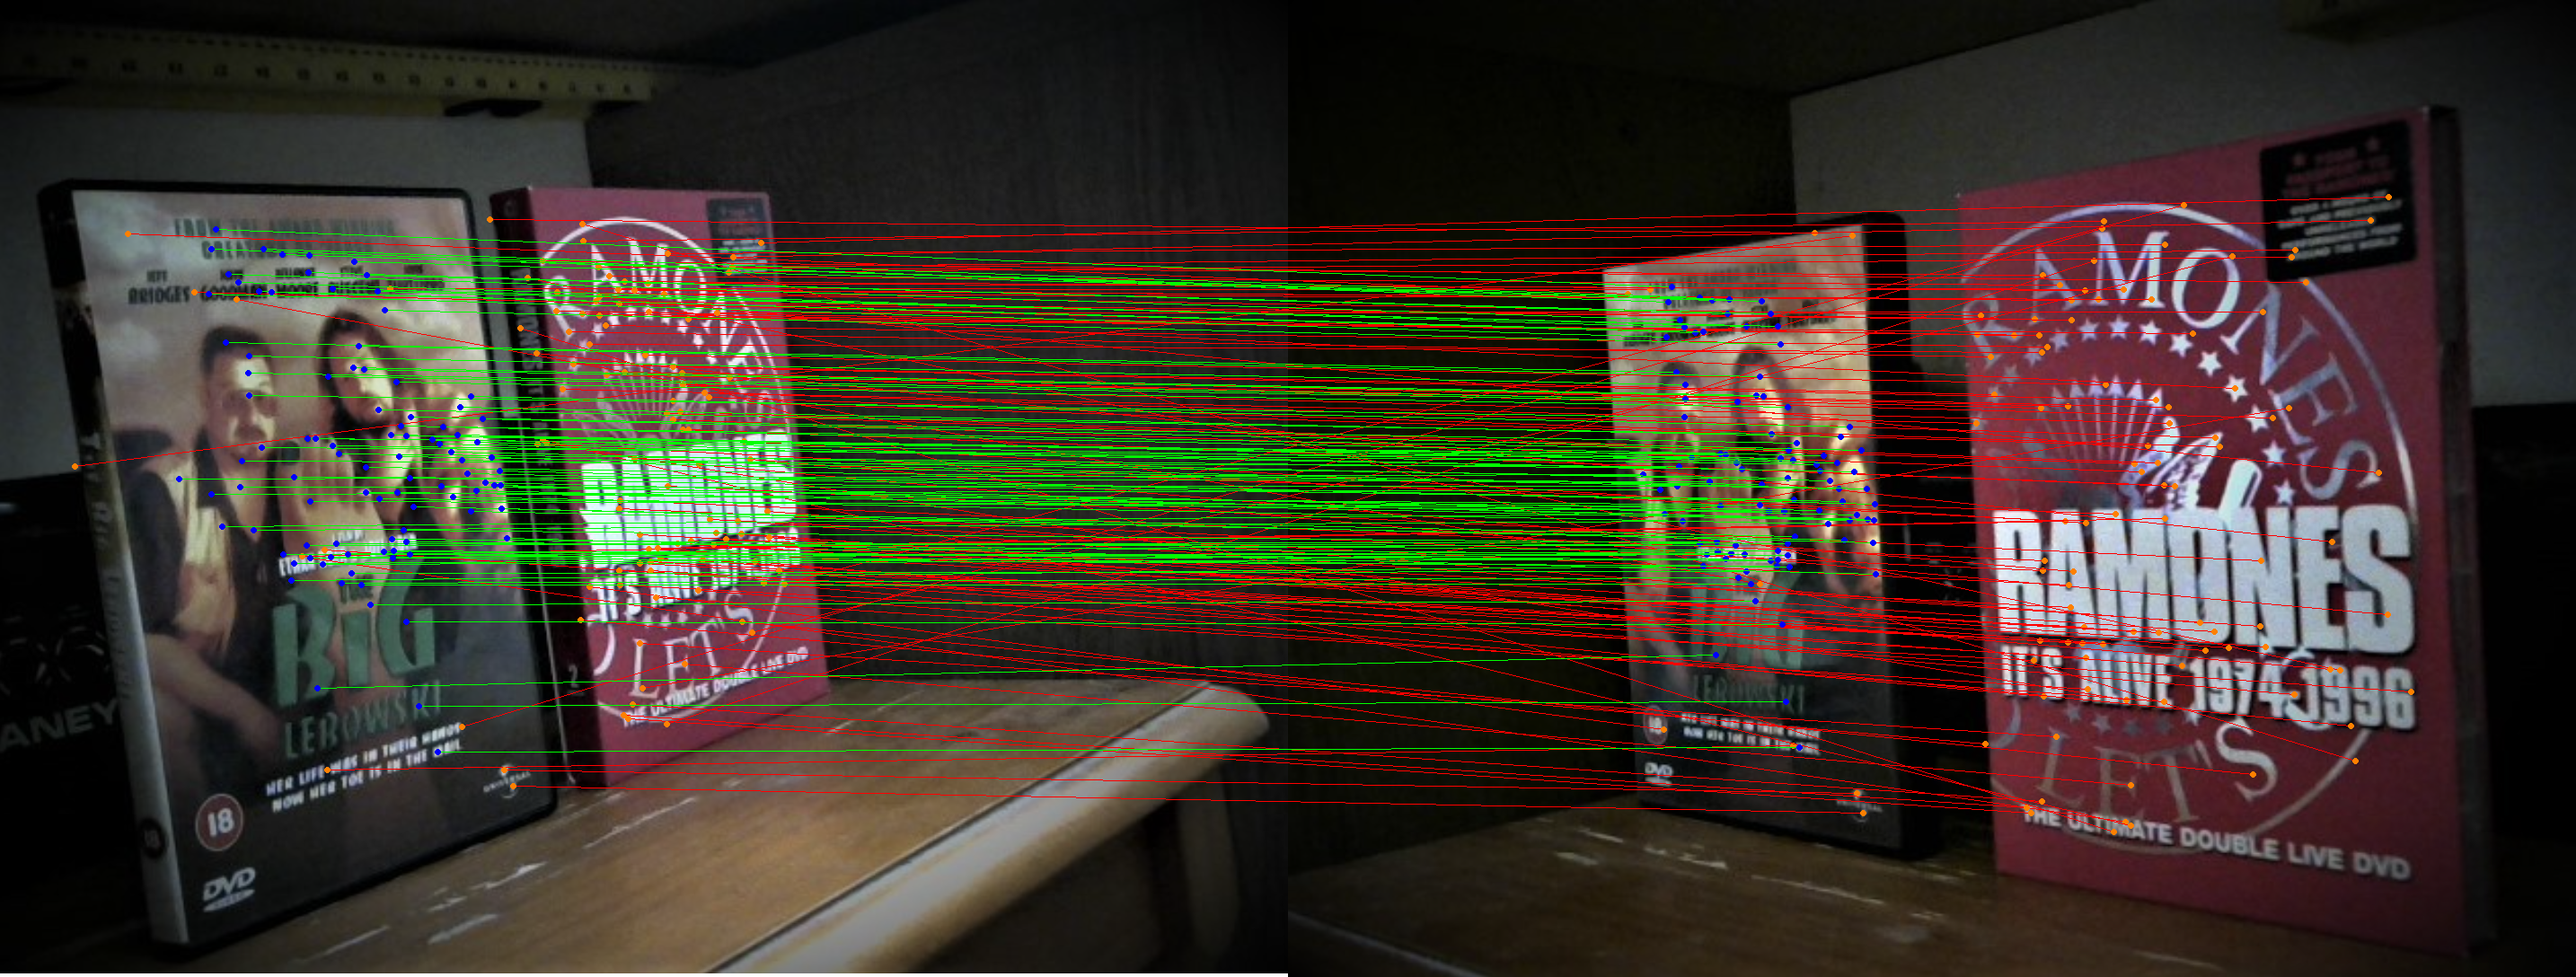
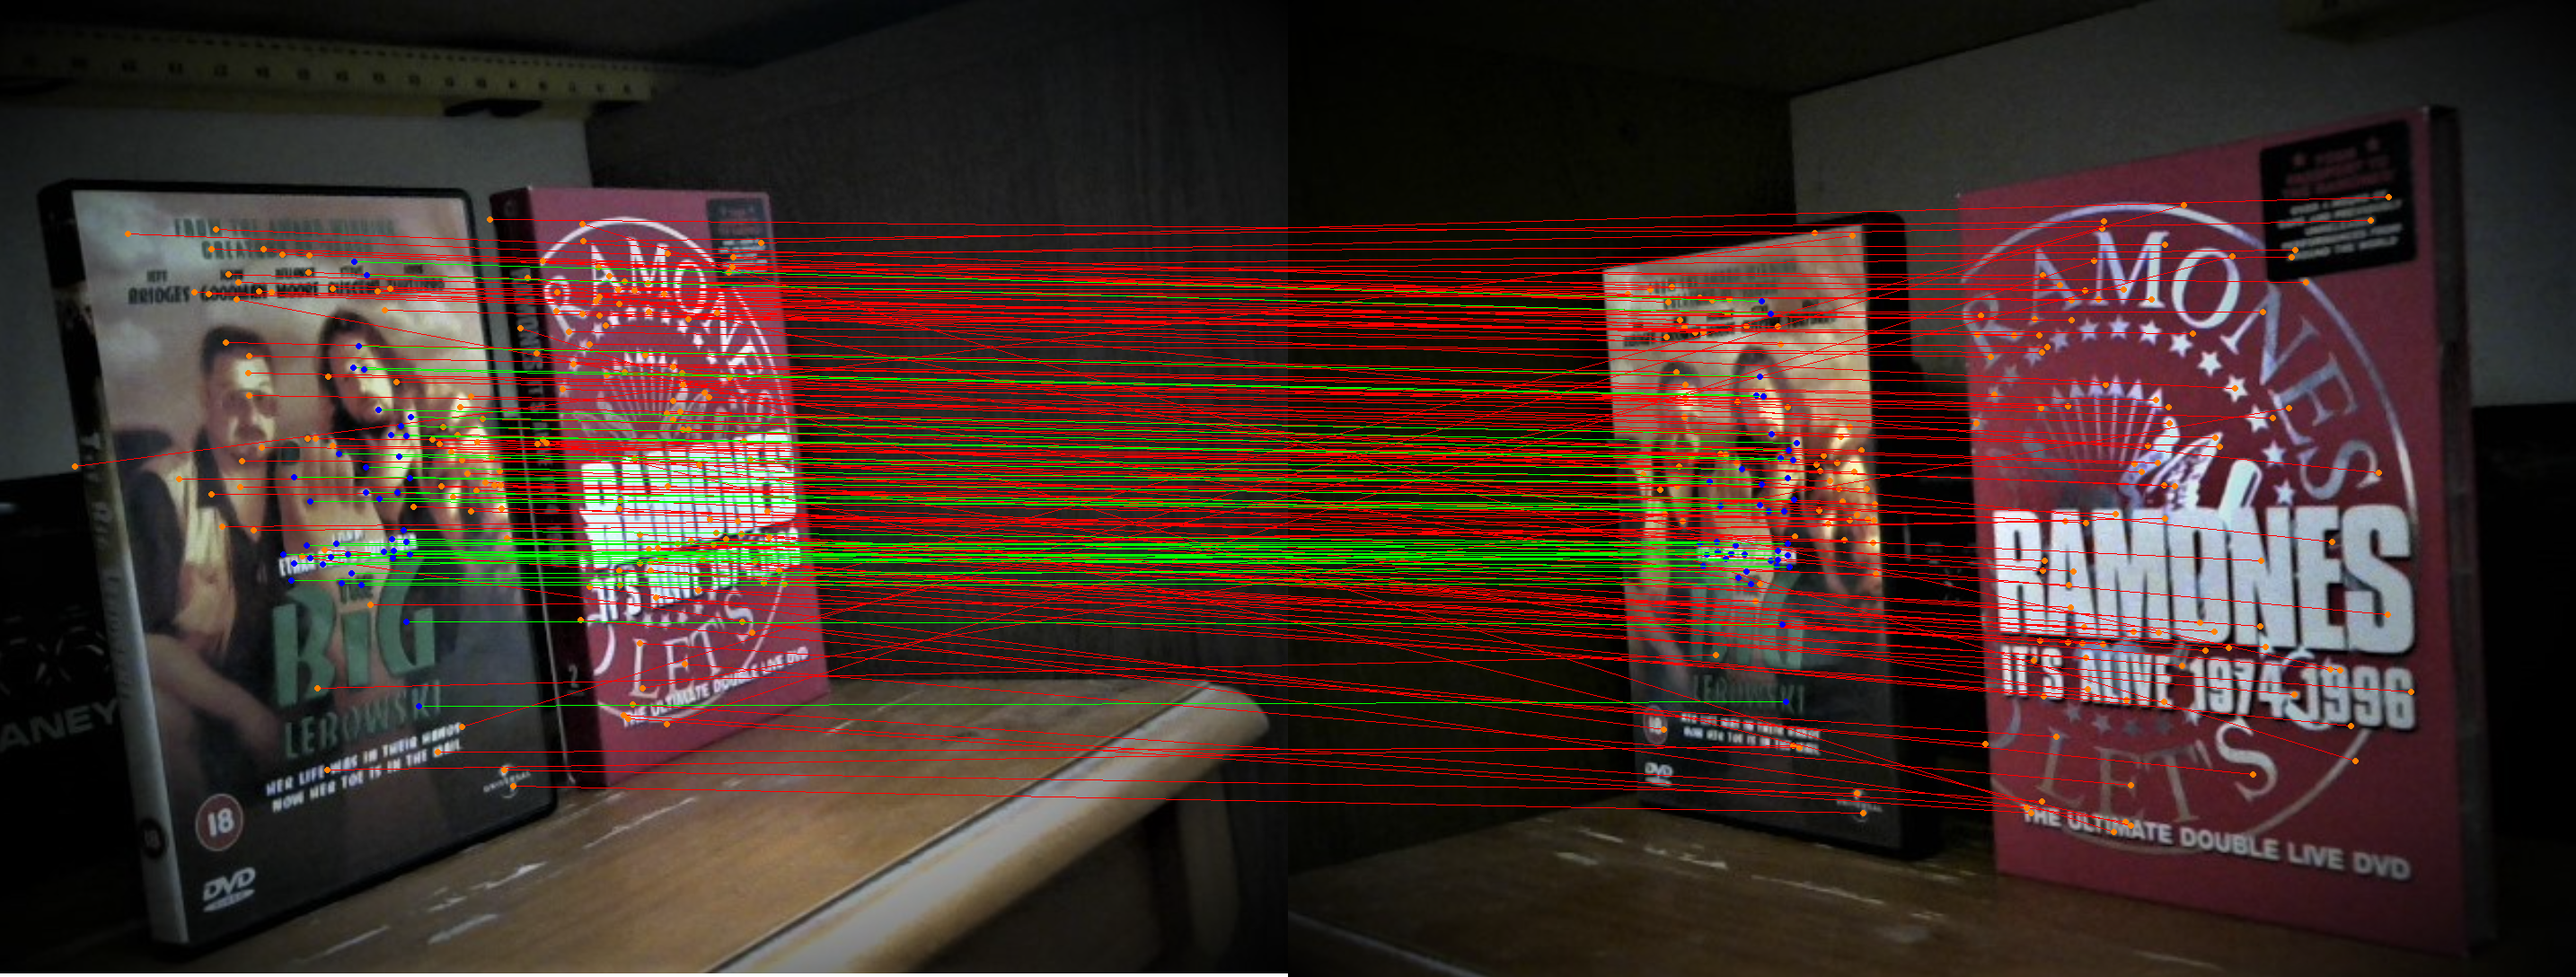
Complete

diff --git a/README.md b/README.md
@@ -41,11 +41,11 @@ Expected Input/Output:
 
 Example Parser Input:
 
-No directory:
+If no image directory:
 
 $ python3 panorama_stitch.py dvd_left.png dvd_right.png --ratio 0.75 --iters 2000 --threshold 5 --model homography --ref 0 --max_dim 1600 --output panorama --seed 0
 
-With a directory:
+With an image directory:
 
 $ python3 panorama_stitch.py --dir dvd --ratio 0.75 --iters 2000 --threshold 5 --model homography --ref 0 --max_dim 1600 --output panorama --seed 0
 
@@ -87,6 +87,55 @@ Output: The output consists of pictures and a terminal textual output
     The file name the panorama was saved into
 
 How To Reproduce My Main Experiments:
+
+-Feature Matching Images-
+
+Matching Ratio Images:
+
+1. python3 panorama_stitch.py --dir dvd --ratio 0.60 --model homography
+2. python3 panorama_stitch.py --dir dvd --ratio 0.75 --model homography
+3. python3 panorama_stitch.py --dir dvd --ratio 0.90 --model homography
+4. python3 panorama_stitch.py --dir uttower --ratio 0.60 --model homography
+5. python3 panorama_stitch.py --dir uttower --ratio 0.75 --model homography
+6. python3 panorama_stitch.py --dir uttower --ratio 0.90 --model homography
+
+-RANSAC Evaluation Images-
+
+Matching Threshold Images:
+
+7. python3 panorama_stitch.py --dir uttower --threshold 1 --model homography
+8. python3 panorama_stitch.py --dir uttower --threshold 2 --model homography
+9. python3 panorama_stitch.py --dir uttower --threshold 5 --model homography
+10. python3 panorama_stitch.py --dir dvd --threshold 2 --model homography
+11. python3 panorama_stitch.py --dir dvd --threshold 5 --model homography
+12. python3 panorama_stitch.py --dir dvd --threshold 26 --model homography
+13. python3 panorama_stitch.py --dir dvd --threshold 27 --model homography
+
+Homography Panoramas:
+
+14. python3 panorama_stitch.py --dir dvd --threshold 26 --model homography
+15. python3 panorama_stitch.py --dir dvd --threshold 27 --model homography
+
+Iteration Images:
+
+16/17. python3 panorama_stitch.py --dir dvd --iters 500 --model homography
+18/19. python3 panorama_stitch.py --dir dvd --iters 1000 --model homography
+20/21. python3 panorama_stitch.py --dir dvd --iters 1500 --model homography
+22/23. python3 panorama_stitch.py --dir dvd --iters 2000 --model homography
+
+-Affine Vs. Homography-
+
+24. python3 panorama_stitch.py --dir uttower --model affine
+25. python3 panorama_stitch.py --dir uttower --model homography
+26. python3 panorama_stitch.py --dir dvd --model affine
+27. python3 panorama_stitch.py --dir dvd --model homography
+
+-Multi-Image Panorama-
+
+28. python3 panorama_stitch.py --dir yosemite --model homography
+29. python3 panorama_stitch.py --dir union --model homography
+30/31/32: Images taken on my phone from my balconey
+33/34. python3 panorama_stitch.py --dir union --model homography
 
 
 --Feature Matching Evaluation--
@@ -224,7 +273,7 @@ RANSAC Iteration Tests:
 
 Image Pairing: dvd_left.png and dvd_right.png
 
-Iterations: 500 | matches: 219 | inliers: 35 | %:
+Iterations: 500 | matches: 219 | inliers: 35 | %: 15.98
 
 Reprojection Error Medians:
 
@@ -234,7 +283,7 @@ Before RANSAC: 36.77 | After RANSAC inliers only: 2.63 | After RANSAC all: 60.27
 
 <img src="results/dvd_homography_iters500.png">
 
-Iterations: 1000 | matches: 219 | inliers: 53 | %:
+Iterations: 1000 | matches: 219 | inliers: 53 | %: 24.2
 
 Reprojection Error Medians:
 
@@ -244,7 +293,7 @@ Before RANSAC: 36.77 | After RANSAC inliers only: 1.69 | After RANSAC all: 50.95
 
 <img src="results/dvd_homography_iters1000.png">
 
-Iterations: 1500 | matches: 219 | inliers: 70 | %:
+Iterations: 1500 | matches: 219 | inliers: 70 | %: 31.96
 
 Reprojection Error Medians:
 
@@ -254,7 +303,7 @@ Before RANSAC: 36.77 | After RANSAC inliers only: 1.51 | After RANSAC all: 54.08
 
 <img src="results/dvd_homography_iters1500.png">
 
-Iterations: 2000 | matches: 219 | inliers: 70 | %:
+Iterations: 2000 | matches: 219 | inliers: 70 | %: 31.96
 
 Reprojection Error Medians:
 
@@ -274,13 +323,45 @@ Affine:
 
 <img src="results/uttower_affine.png">
 
+Matches: 366 | Inliers: 318 | %: 86.9
 
+Median Reprojection Error:
+
+Before RANSAC: 5 | After RANSAC inliers only: 3.13 | After RANSAC all: 3.30
 
 Homography:
 
 <img src="results/uttower_homography.png">
 
+Matches: 366 | Inliers: 354 | %: 96.7
 
+Median Reprojection Error:
+
+Before RANSAC: 16.38 | After RANSAC: 0.46 | After RANSAC: 0.49
+
+Image Pair: dvd_left.png and dvd_right.png
+
+Affine:
+
+<img src="results/dvd_affine.png">
+
+Matches: 219 | Inliers: 43 | %: 19.6
+
+Median Reprojection Error:
+
+Before RANSAC: 66.17 | After RANSAC: 1.75 | After RANSAC: 71.45
+
+Homography:
+
+<img src="results/dvd_homography.png">
+
+Matches: 219 | Inliers: 70 | %: 32.00
+
+Median Reprojection Error:
+
+Before RANSAC: 36.77 | After RANSAC: 1.51 | After RANSAC: 54.08
+
+It appears as if the homography is generally better at getting a more accurate panorama and overlay. For both image pairs, it got more inliers and it got a lower median error for both the inliers and overall. Which makes sense as it takes into account more variations in the images as opposed to a simple shift, so it can account for all of what an affine can, but an affine cannot do what a homography can. Affine only accounts for 6 degrees of freedom, so its ability to align something like the dvds is impossible to very good with different camera angles and depths, whereas a homography with 8 degrees of freedom can.
 
 --Multiple-Image Panorama--
 
@@ -288,7 +369,57 @@ Multiple Images: yosemite1.jpg, yosemite2.jpg, yosemite3.jpg, yosemite4.jpg
 
 <img src="results/yosemite_homography.png">
 
-The reference image used in this panorama is yosemite3.jpg
+Reference Image: yosemite3.jpg
 
+Custom Images: union1.jpeg, union2.jpeg, union3.jpeg
+
+<img src="results/union_homography.png">
+
+Reference Image: union2.jpeg
+
+Blending Choices:
+- The reference image used is the middle image. Every image has some shift/error to account for and choosing the middle image as the reference reduces that error as every image is half the image away from the reference.
+- Feathering is used to blend the edges together. Each pixel's weight is its distance to the nearest edge of the source image plus 1. Panorama is the weighted average of all images covering that pixel.
+- Inverse warping with bilinear interpolation. This is an AI addition that takes output pixels back to source pixels guarenteeing every output has a value, with no holes.
+
+Evidence of Automatic Matching:
+
+union1.jpeg:
+
+<img src="union/union1.jpeg">
+
+union2.jpeg:
+
+<img src="union/union2.jpeg">
+
+union3.jpeg:
+
+<img src="union/union3.jpeg">
+
+Matches of union1 and union2:
+
+<img src="results/union_matches_homography_0_1.png">
+
+Matches: 322 | Inliers: 196 | %: 60.9
+
+Median Reprojection Error:
+
+Before RANSAC: 90.53 | After RANSAC inliers only: 1.29 | After RANSAC all: 3.11
+
+Matches of union2 and union3:
+
+<img src="results/union_matches_homography_1_2.png">
+
+Matches: 1028 | Inliers: 1208 | %: 85.1
+
+Median Reprojection Error:
+
+Before RANSAC: 41.39 | After RANSAC inliers only: 1.91 | After RANSAC all: 2.18
+
+For these photos I went on my balcony and rotated around the entirety of the view taking 3 separate pictures. 
 
 --AI Declaration--
+
+I utilized AI in many of the same ways in which I used on the first project. I had it help with debugging some issues/bugs that I experienced throughout the course of this project.
+The biggest issue I experienced many times was a memory issue where the creation of the panorama would require a significant amount of memory resulting in the program to terminate, so I used AI to try to help me fix this issue as I was unable to get any output images. It helped rewrite some of the functions to change parts of the process into smaller chunks. Feature matching is now done in blocks, image warping in rows, blending by accumulations. It would terminate on large keypoint sets and canvases. I also had it create some helper functions to streamline some of the program process like polygon_area() and is_convex().
+However, during this memory issue it went through many iterations of functions that did not work, so I had to go in, change parts, and try it again, it would terminate, I would AI debug, terminate, check things myself, and repeat. Until eventually I got to a working program.
